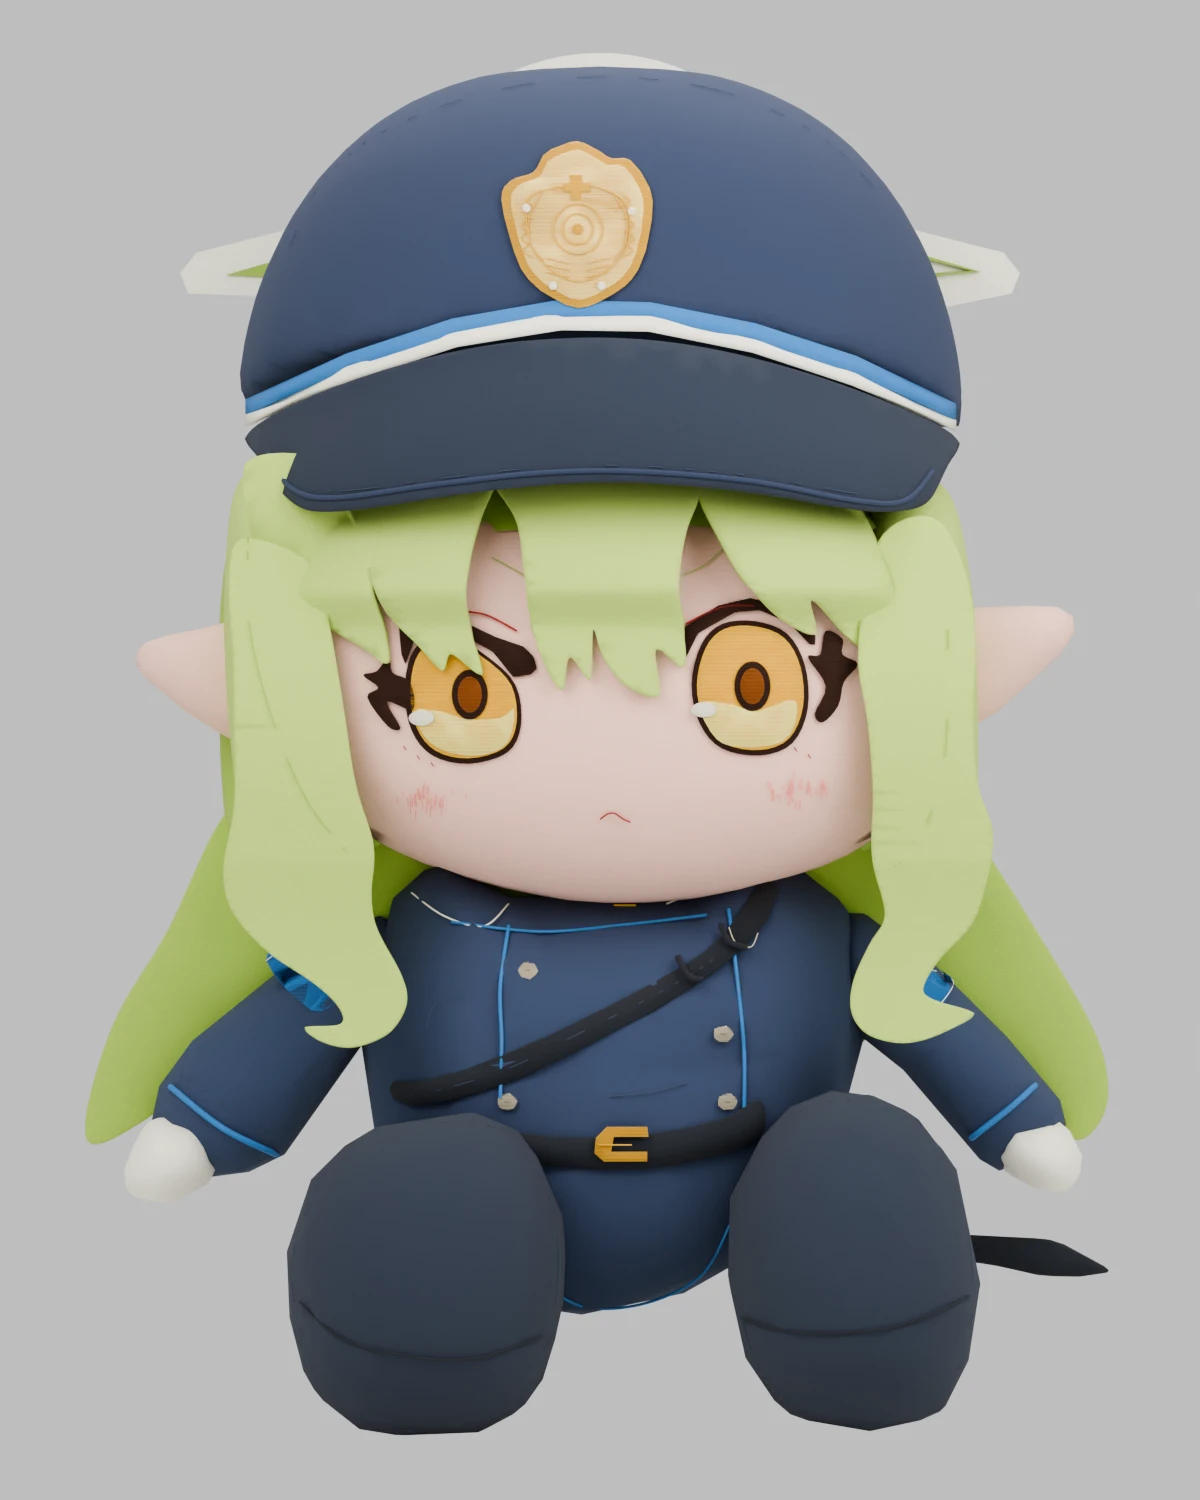
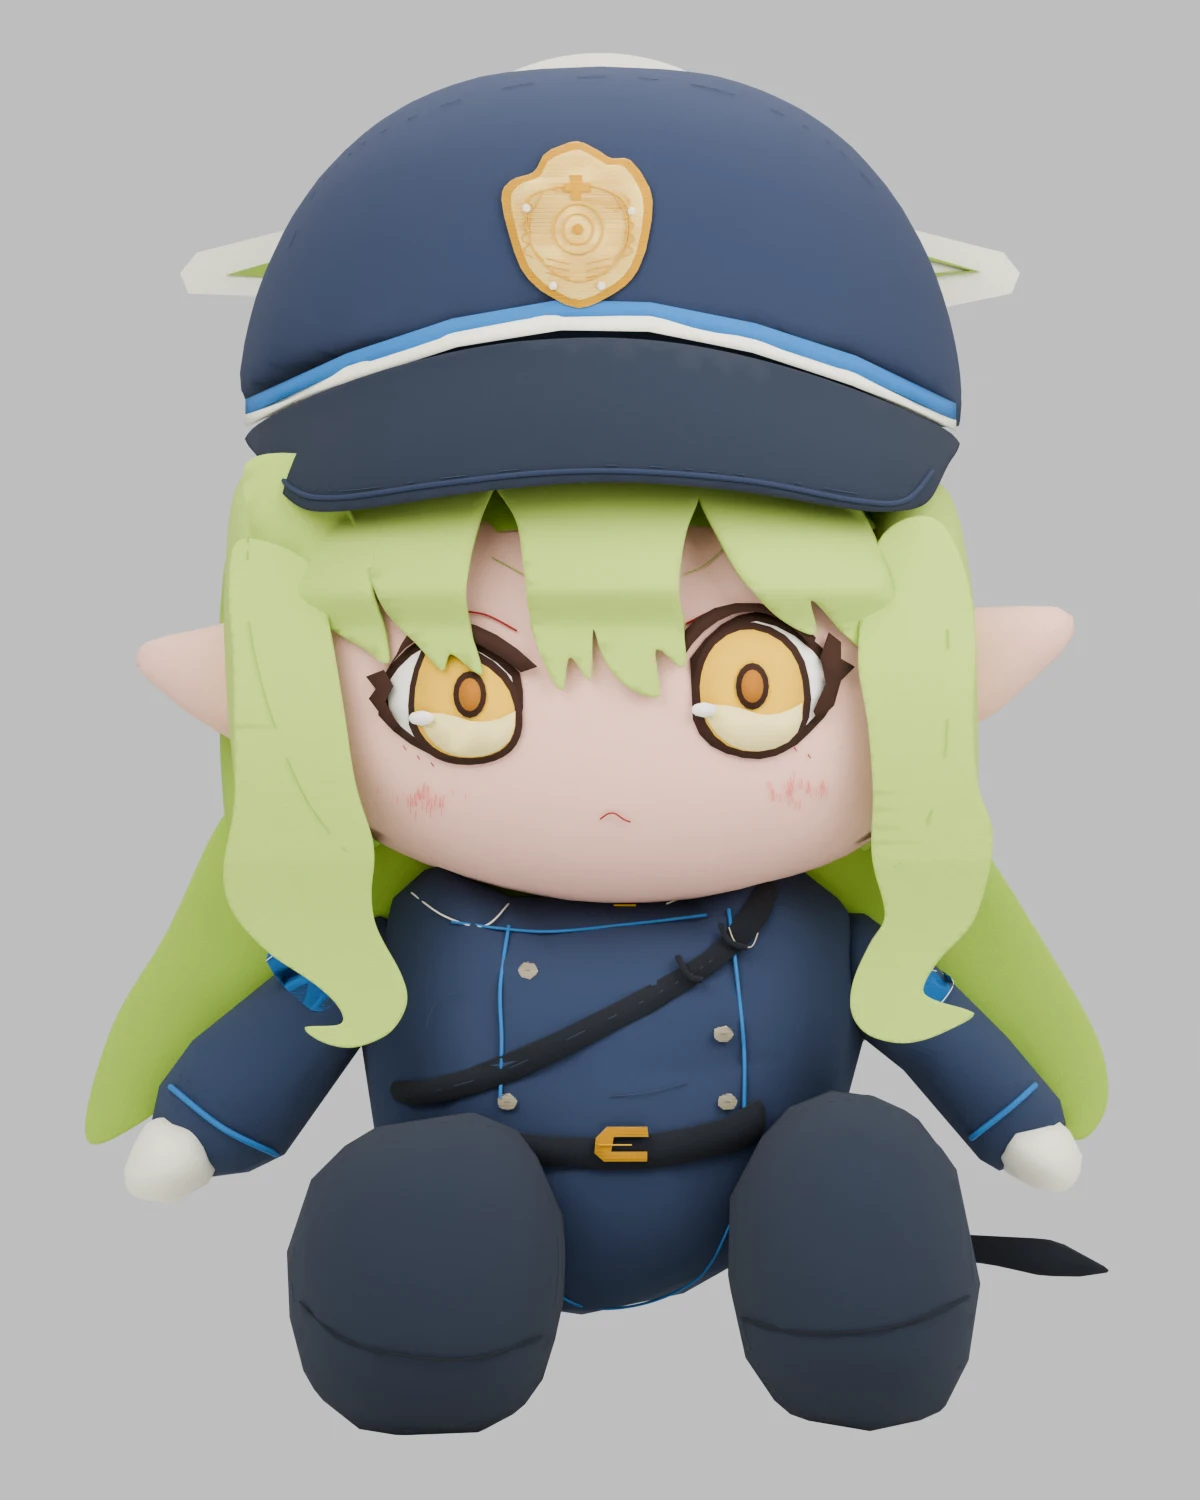
fix: restore Hikari scleras and refine eye embroidery
Assisted-by: codex:gpt-6-astra

Changed region(s): [[0.555, 0.3987, 0.7092, 0.5213], [0.3083, 0.3987, 0.4625, 0.5213]]

diff --git a/fix_eyes.py b/fix_eyes.py
@@ -1,0 +1,44 @@
+"""Replace the Hikari/Aoba eye embroidery with reviewed SVG sewing layers."""
+
+import argparse
+import sys
+from pathlib import Path
+
+import bpy
+
+sys.path.insert(0, str(Path(__file__).parent))
+from plush_variants import PhotoFrame, color_material, remove, save, surface
+from sewing_patterns import read_pattern, sew
+
+
+def rebuild_eyes(root, student):
+    if bpy.context.object and bpy.context.object.mode != 'OBJECT':
+        bpy.ops.object.mode_set(mode='OBJECT')
+    # The Hikari file is also a material library for every student generator.
+    for material in bpy.data.materials:
+        if material.name[:2].isdigit() and ' | ' in material.name:
+            material.use_fake_user = True
+    source = Path(__file__).parent/'patterns'/f'{student.lower()}_eyes.svg'
+    colors = {part['fill'] for part in read_pattern(source) if part['fill']}
+    materials = {hex_color: color_material(f'{student} | eye thread {hex_color}',
+        tuple(int(hex_color[i:i+2], 16)/255 for i in (1,3,5)), '09 | ivory embroidery') for hex_color in sorted(colors)}
+    remove(root, ('Face | eye', 'Face | golden', 'Face | light iris', 'Face | pupil',
+                  'Face | white', 'Face | L ', 'Face | R ', 'Face | burgundy', 'Face | wine',
+                  'Face | coral', 'Face | rose', 'Face | soft upper', 'Face | ivory glint', 'Face | lower lash'))
+    face = surface(bpy.data.objects['Face | broad peach stuffed cushion'])
+    frame = PhotoFrame(376, 1000, .0034) if student == 'Hikari' else PhotoFrame()
+    objects = sew(root, source, face, materials, frame=frame, prefix='Face | eye ',
+                  offset=.007, layer_gap=.003, tolerance=.0015, step=.065)
+    root['eye_pattern'] = str(source.relative_to(Path(__file__).parent))
+    return objects
+
+
+if __name__ == '__main__':
+    parser = argparse.ArgumentParser(description=__doc__)
+    parser.add_argument('--student', choices=['Hikari'], required=True)
+    parser.add_argument('--output', type=Path)
+    args = parser.parse_args(sys.argv[sys.argv.index('--')+1:] if '--' in sys.argv else [])
+    root = bpy.data.objects[f'{args.student.upper()} | 170 mm reference plush']
+    rig = bpy.data.objects[f'{args.student.upper()} | pose rig']
+    rebuild_eyes(root, args.student)
+    save(root, rig, args.student, output=args.output)

diff --git a/test_eyes.py b/test_eyes.py
@@ -1,0 +1,41 @@
+"""Verify visible scleras, separate iris layers, shallow relief and head attachment."""
+
+import sys
+from pathlib import Path
+
+import bpy
+from mathutils import Vector
+
+sys.path.insert(0, str(Path(__file__).parent))
+from plush_variants import PhotoFrame, surface
+
+root = next(o for o in bpy.context.scene.objects if o.type == 'EMPTY' and 'reference plush' in o.name)
+student = root.get('student', 'Hikari')
+if student == 'Hikari':
+    for name in ('12 | amber iris satin stitch', '13 | butter iris satin stitch',
+                 '14 | chocolate eye outlines', '15 | brown pupils'):
+        assert name in bpy.data.materials and bpy.data.materials[name].use_fake_user, name
+frame = PhotoFrame(376,1000,.0034) if student == 'Hikari' else PhotoFrame()
+boxes = {'Hikari': [(207,399,333,512),(433,390,562,510)],
+         'Aoba': [(220,465,332,550),(398,465,512,550)]}[student]
+face = surface(bpy.data.objects['Face | broad peach stuffed cushion'])
+graph = bpy.context.evaluated_depsgraph_get()
+for side, (left,top,right,bottom) in zip(('L','R'), boxes):
+    white, eyes = 0, 0
+    for x in range(left,right,2):
+        for y in range(top,bottom,2):
+            px,pz = frame((x,y))
+            hit, _, _, _, obj, _ = bpy.context.scene.ray_cast(graph, Vector((px,-5,pz)), Vector((0,1,0)))
+            if hit and obj.name.startswith('Face | eye '):
+                eyes += 1
+                white += obj.name == 'Face | eye sclera-'+side
+    assert eyes > 150 and .04 < white/eyes < .40, (side, white, eyes)
+    print(f'{student} {side}: visible sclera {white}/{eyes} eye probes ({white/eyes:.1%})')
+    for label in ('sclera','iris','pupil','glint'):
+        obj = bpy.data.objects[f'Face | eye {label}-{side}']
+        assert obj.parent_bone == 'head'
+        for vertex in obj.data.vertices:
+            p = obj.matrix_world @ vertex.co
+            assert .003 < face(p.x,p.z)-p.y < .045, (obj.name, p)
+assert sum(len(o.data.vertices) for o in root.children_recursive if o.type == 'MESH') <= 9000
+print('PASS: visible scleras, distinct iris/pupil/glint layers, shallow surface relief, head bindings and budget')

diff --git a/README.md b/README.md
@@ -11,6 +11,13 @@ The complete felt halo is restored from [the rear cap photograph (image 2)](http
 See the [back preview](./preview_back.webp) and [modelling notes](./MODELING.md) for
 the reference workflow and the measured v4 geometry reduction.
 
+Hikari's [editable eye pattern](./patterns/hikari_eyes.svg) separates white scleras,
+golden irises, pupils and glints. Regenerate its compiled coordinates with
+`uv run --python 3.12 vectorize.py prepare patterns/hikari_eyes.svg`, then apply it
+with `blender --background hikari_chocopuni.blend --python-exit-code 1 --python
+fix_eyes.py -- --student Hikari --output .work/hikari.blend`.
+`test_eyes.py` checks actual front-view sclera visibility as well as layer depth.
+
 ## Nozomi
 
 | [original](https://www.goodsmile.com/en/product/1140953/Chocopuni+Plushie+Aoba+Hikari+Nozomi) | front | side | back |
